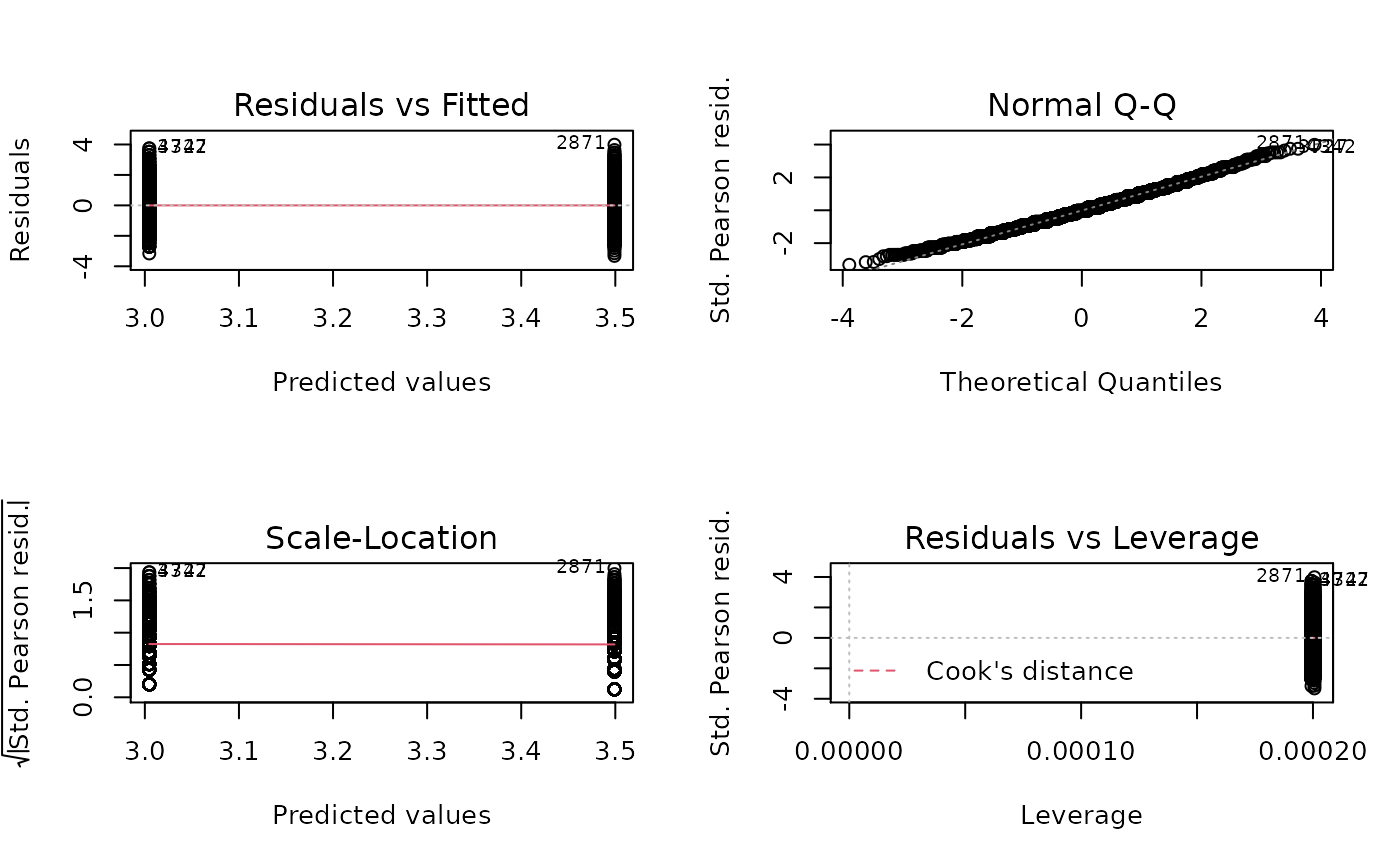
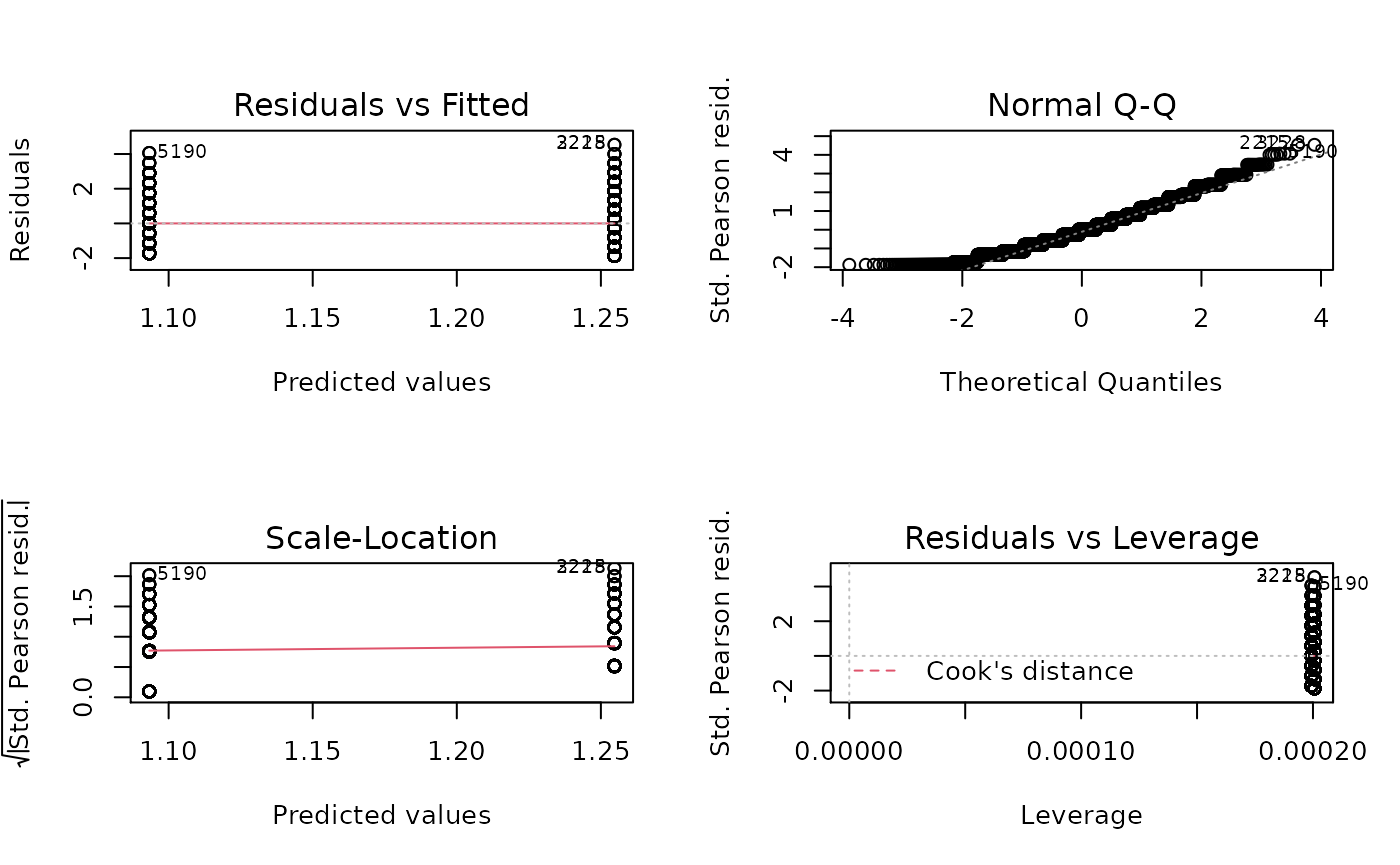
Deploying to gh-pages from  @ 47412f17218c9c6b55fefcc4e6efac3cb1cf3502 🚀

diff --git a/articles/session_lab.html b/articles/session_lab.html
@@ -113,67 +113,92 @@
 <ol style="list-style-type: decimal">
 <li>Simulate count data from a Poisson distribution (for example number of hospital visits by persons over 70 in a 3-year period), where:
 <ol style="list-style-type: lower-alpha">
-<li>each person is annotated with “race” as “white” or “non-white”</li>
+<li>10,000 persons annotated with “race” as “white” or “non-white”</li>
 <li>“white” persons have an average of 3.5 hospital visits during this time period</li>
 <li>“non-white” persons have an average of 3 hospital visits</li>
 </ol>
 </li>
 </ol>
 <div class="sourceCode" id="cb1"><pre class="downlit">
-<span class="va">simdat</span> <span class="op">&lt;-</span> <span class="fu"><a href="https://rdrr.io/r/base/data.frame.html">data.frame</a></span><span class="op">(</span>race<span class="op">=</span><span class="fu"><a href="https://rdrr.io/r/base/sample.html">sample</a></span><span class="op">(</span><span class="fu"><a href="https://rdrr.io/r/base/c.html">c</a></span><span class="op">(</span><span class="st">"white"</span>, <span class="st">"non-white"</span><span class="op">)</span>, size<span class="op">=</span><span class="fl">10000</span>, replace<span class="op">=</span><span class="cn">TRUE</span><span class="op">)</span><span class="op">)</span>
-<span class="va">simdat</span><span class="op">$</span><span class="va">race</span> <span class="op">&lt;-</span> <span class="fu"><a href="https://rdrr.io/r/base/factor.html">factor</a></span><span class="op">(</span><span class="va">simdat</span><span class="op">$</span><span class="va">race</span>, levels<span class="op">=</span><span class="fu"><a href="https://rdrr.io/r/base/c.html">c</a></span><span class="op">(</span><span class="st">"white"</span>, <span class="st">"non-white"</span><span class="op">)</span><span class="op">)</span>
-<span class="va">simdat</span><span class="op">$</span><span class="va">y</span> <span class="op">&lt;-</span> <span class="fu"><a href="https://rdrr.io/r/stats/Poisson.html">rpois</a></span><span class="op">(</span><span class="fl">10000</span>, lambda<span class="op">=</span><span class="fu"><a href="https://rdrr.io/r/base/ifelse.html">ifelse</a></span><span class="op">(</span><span class="va">simdat</span><span class="op">$</span><span class="va">race</span><span class="op">==</span><span class="st">"white"</span>, <span class="fu"><a href="https://rdrr.io/r/base/Log.html">exp</a></span><span class="op">(</span><span class="fl">3.5</span><span class="op">)</span>, <span class="fu"><a href="https://rdrr.io/r/base/Log.html">exp</a></span><span class="op">(</span><span class="fl">3</span><span class="op">)</span><span class="op">)</span><span class="op">)</span></pre></div>
+<span class="kw"><a href="https://rdrr.io/r/base/library.html">library</a></span><span class="op">(</span><span class="va"><a href="http://tidyverse.tidyverse.org">tidyverse</a></span><span class="op">)</span></pre></div>
+<pre><code>## ── Attaching packages ─────────────────────────────────────── tidyverse 1.3.0 ──</code></pre>
+<pre><code>## ✔ ggplot2 3.3.2     ✔ purrr   0.3.4
+## ✔ tibble  3.0.3     ✔ dplyr   1.0.2
+## ✔ tidyr   1.1.2     ✔ stringr 1.4.0
+## ✔ readr   1.4.0     ✔ forcats 0.5.0</code></pre>
+<pre><code>## ── Conflicts ────────────────────────────────────────── tidyverse_conflicts() ──
+## ✖ dplyr::filter() masks stats::filter()
+## ✖ dplyr::lag()    masks stats::lag()</code></pre>
+<div class="sourceCode" id="cb5"><pre class="downlit">
+<span class="fu"><a href="https://rdrr.io/r/base/Random.html">set.seed</a></span><span class="op">(</span><span class="fl">1</span><span class="op">)</span>
+<span class="va">N</span> <span class="op">&lt;-</span> <span class="fl">10000</span>
+<span class="va">simdat</span> <span class="op">&lt;-</span> <span class="fu"><a href="https://rdrr.io/r/base/data.frame.html">data.frame</a></span><span class="op">(</span>race <span class="op">=</span> <span class="fu"><a href="https://rdrr.io/r/base/sample.html">sample</a></span><span class="op">(</span><span class="fu"><a href="https://rdrr.io/r/base/c.html">c</a></span><span class="op">(</span><span class="st">"white"</span>, <span class="st">"non-white"</span><span class="op">)</span>, <span class="va">N</span>, replace <span class="op">=</span> <span class="cn">TRUE</span><span class="op">)</span><span class="op">)</span> <span class="op">%&gt;%</span>
+  <span class="fu">mutate</span><span class="op">(</span>race <span class="op">=</span> <span class="fu"><a href="https://rdrr.io/r/base/factor.html">factor</a></span><span class="op">(</span><span class="va">race</span>, levels <span class="op">=</span> <span class="fu"><a href="https://rdrr.io/r/base/c.html">c</a></span><span class="op">(</span><span class="st">"white"</span>, <span class="st">"non-white"</span><span class="op">)</span><span class="op">)</span><span class="op">)</span> <span class="op">%&gt;%</span>
+  <span class="fu">mutate</span><span class="op">(</span>y <span class="op">=</span> <span class="fu"><a href="https://rdrr.io/r/stats/Poisson.html">rpois</a></span><span class="op">(</span><span class="va">N</span>, lambda <span class="op">=</span> <span class="fu"><a href="https://rdrr.io/r/base/ifelse.html">ifelse</a></span><span class="op">(</span><span class="va">race</span> <span class="op">==</span> <span class="st">"white"</span>, <span class="fl">3.5</span>, <span class="fl">3.0</span><span class="op">)</span><span class="op">)</span><span class="op">)</span></pre></div>
 <ol start="2" style="list-style-type: decimal">
 <li>Fit a log-linear Poisson model of count outcomes with “race” as covariate</li>
 </ol>
-<div class="sourceCode" id="cb2"><pre class="downlit">
-<span class="va">fit</span> <span class="op">&lt;-</span> <span class="fu"><a href="https://rdrr.io/r/stats/glm.html">glm</a></span><span class="op">(</span><span class="va">y</span> <span class="op">~</span> <span class="va">race</span>, data <span class="op">=</span> <span class="va">simdat</span>, family <span class="op">=</span> <span class="fu"><a href="https://rdrr.io/r/stats/family.html">poisson</a></span><span class="op">(</span><span class="st">"log"</span><span class="op">)</span><span class="op">)</span>
+<div class="sourceCode" id="cb6"><pre class="downlit">
+<span class="va">fit</span> <span class="op">&lt;-</span> <span class="fu"><a href="https://rdrr.io/r/stats/glm.html">glm</a></span><span class="op">(</span><span class="va">y</span> <span class="op">~</span> <span class="va">race</span>, data <span class="op">=</span> <span class="va">simdat</span>, family <span class="op">=</span> <span class="fu"><a href="https://rdrr.io/r/stats/family.html">poisson</a></span><span class="op">(</span>link <span class="op">=</span> <span class="st">"log"</span><span class="op">)</span><span class="op">)</span>
 <span class="fu"><a href="https://rdrr.io/r/base/summary.html">summary</a></span><span class="op">(</span><span class="va">fit</span><span class="op">)</span></pre></div>
 <pre><code>## 
 ## Call:
-## glm(formula = y ~ race, family = poisson("log"), data = simdat)
+## glm(formula = y ~ race, family = poisson(link = "log"), data = simdat)
 ## 
 ## Deviance Residuals: 
 ##     Min       1Q   Median       3Q      Max  
-## -3.7537  -0.7257  -0.0402   0.6677   3.6210  
+## -2.6483  -0.8760   0.0092   0.5588   3.5410  
 ## 
 ## Coefficients:
 ##                Estimate Std. Error z value Pr(&gt;|z|)    
-## (Intercept)    3.499100   0.002463  1420.9   &lt;2e-16 ***
-## racenon-white -0.494397   0.003993  -123.8   &lt;2e-16 ***
+## (Intercept)    1.254710   0.007564  165.88   &lt;2e-16 ***
+## racenon-white -0.161428   0.011137  -14.49   &lt;2e-16 ***
 ## ---
 ## Signif. codes:  0 '***' 0.001 '**' 0.01 '*' 0.05 '.' 0.1 ' ' 1
 ## 
 ## (Dispersion parameter for poisson family taken to be 1)
 ## 
-##     Null deviance: 25873  on 9999  degrees of freedom
-## Residual deviance: 10079  on 9998  degrees of freedom
-## AIC: 60834
+##     Null deviance: 11041  on 9999  degrees of freedom
+## Residual deviance: 10831  on 9998  degrees of freedom
+## AIC: 39419
 ## 
-## Number of Fisher Scoring iterations: 4</code></pre>
+## Number of Fisher Scoring iterations: 5</code></pre>
 <ol start="3" style="list-style-type: decimal">
 <li>Use a chi-square test on deviance residuals to test null hypothesis of no relationship between mean hospital visits and race.</li>
 </ol>
 <ul>
 <li>The difference in total deviance between two nested models is <span class="math inline">\(\chi^2\)</span> distributed under <span class="math inline">\(H_0\)</span> that the more complex model is no better at explaining the response.
 <ul>
-<li>The difference in deviance residuals is (26157 - 10111) = 16046, with a difference of 1 degrees of freedom.</li>
+<li>The difference in deviance residuals is (11041 - 10831) = 210, with a difference of 1 degrees of freedom.</li>
 </ul>
 </li>
 </ul>
 <p>The critical threshold for rejection at p=0.05 is:</p>
-<div class="sourceCode" id="cb4"><pre class="downlit">
+<div class="sourceCode" id="cb8"><pre class="downlit">
 <span class="fu"><a href="https://rdrr.io/r/stats/Chisquare.html">qchisq</a></span><span class="op">(</span><span class="fl">0.95</span>, df<span class="op">=</span><span class="fl">1</span><span class="op">)</span></pre></div>
 <pre><code>## [1] 3.841459</code></pre>
 <p>So we reject <span class="math inline">\(H_0\)</span></p>
+<p>BEWARE OF MISSING DATA: THIS IS SAFER</p>
+<div class="sourceCode" id="cb10"><pre class="downlit">
+<span class="va">fit0</span> <span class="op">&lt;-</span> <span class="fu"><a href="https://rdrr.io/r/stats/glm.html">glm</a></span><span class="op">(</span><span class="va">y</span> <span class="op">~</span> <span class="op">-</span><span class="fl">1</span>, data <span class="op">=</span> <span class="va">simdat</span>, family <span class="op">=</span> <span class="fu"><a href="https://rdrr.io/r/stats/family.html">poisson</a></span><span class="op">(</span>link <span class="op">=</span> <span class="st">"log"</span><span class="op">)</span><span class="op">)</span>
+<span class="fu"><a href="https://rdrr.io/r/stats/anova.html">anova</a></span><span class="op">(</span><span class="va">fit0</span>, <span class="va">fit</span>, test <span class="op">=</span> <span class="st">"LRT"</span><span class="op">)</span></pre></div>
+<pre><code>## Analysis of Deviance Table
+## 
+## Model 1: y ~ -1
+## Model 2: y ~ race
+##   Resid. Df Resid. Dev Df Deviance  Pr(&gt;Chi)    
+## 1     10000      42527                          
+## 2      9998      10831  2    31696 &lt; 2.2e-16 ***
+## ---
+## Signif. codes:  0 '***' 0.001 '**' 0.01 '*' 0.05 '.' 0.1 ' ' 1</code></pre>
 <ol start="3" style="list-style-type: decimal">
 <li>Inference on deviance residuals 2</li>
 </ol>
 <p>Total residual deviance is <span class="math inline">\(\chi^2\)</span> distributed if the model is correctly specified + What is the critical value for rejecting <span class="math inline">\(H_0\)</span> at <span class="math inline">\(p &lt; 0.05\)</span> with a <span class="math inline">\(\chi^2\)</span> distribution of 9998 degrees of freedom?</p>
-<div class="sourceCode" id="cb6"><pre class="downlit">
+<div class="sourceCode" id="cb12"><pre class="downlit">
 <span class="fu"><a href="https://rdrr.io/r/stats/Chisquare.html">qchisq</a></span><span class="op">(</span><span class="fl">0.95</span>, df<span class="op">=</span><span class="fl">9998</span><span class="op">)</span></pre></div>
 <pre><code>## [1] 10231.73</code></pre>
-<p>Here total residual deviance is 10111, so we do <em>not</em> exceed the threshold and do not reject <span class="math inline">\(H_0\)</span> that the model is correctly specified.</p>
+<p>Here total residual deviance is 10811, so we do <em>not</em> exceed the threshold and do not reject <span class="math inline">\(H_0\)</span> that the model is correctly specified.</p>
 <ol start="4" style="list-style-type: decimal">
 <li>Create and discuss standard fit diagnostics plots</li>
 </ol>
@@ -186,7 +211,7 @@
 <li>Outcome is # times the drug user shared a syringe in the past month (<code>shared_syr</code>)</li>
 <li>Predictors: sex, ethn, homeless</li>
 </ul>
-<div class="sourceCode" id="cb8"><pre class="downlit">
+<div class="sourceCode" id="cb14"><pre class="downlit">
 <span class="kw"><a href="https://rdrr.io/r/base/library.html">library</a></span><span class="op">(</span><span class="va"><a href="https://readr.tidyverse.org">readr</a></span><span class="op">)</span>
 <span class="va">needledat</span> <span class="op">=</span> <span class="fu"><a href="https://readr.tidyverse.org/reference/read_delim.html">read_csv</a></span><span class="op">(</span><span class="st">"needle_sharing.csv"</span><span class="op">)</span></pre></div>
 <pre><code>## 
@@ -210,15 +235,15 @@
 ##   homeless = col_double(),
 ##   shsyr = col_double()
 ## )</code></pre>
-<div class="sourceCode" id="cb10"><pre class="downlit">
+<div class="sourceCode" id="cb16"><pre class="downlit">
 <span class="fu"><a href="https://rdrr.io/r/base/summary.html">summary</a></span><span class="op">(</span><span class="va">needledat</span><span class="op">$</span><span class="va">shared_syr</span><span class="op">)</span></pre></div>
 <pre><code>##    Min. 1st Qu.  Median    Mean 3rd Qu.    Max.    NA's 
 ##   0.000   0.000   0.000   2.976   0.000  60.000       5</code></pre>
-<div class="sourceCode" id="cb12"><pre class="downlit">
+<div class="sourceCode" id="cb18"><pre class="downlit">
 <span class="fu"><a href="https://rdrr.io/r/stats/cor.html">var</a></span><span class="op">(</span><span class="va">needledat</span><span class="op">$</span><span class="va">shared_syr</span>, na.rm<span class="op">=</span><span class="cn">TRUE</span><span class="op">)</span></pre></div>
 <pre><code>## [1] 106.5978</code></pre>
 <p>Some recoding:</p>
-<div class="sourceCode" id="cb14"><pre class="downlit">
+<div class="sourceCode" id="cb20"><pre class="downlit">
 <span class="fu"><a href="https://rdrr.io/r/base/message.html">suppressPackageStartupMessages</a></span><span class="op">(</span><span class="kw"><a href="https://rdrr.io/r/base/library.html">library</a></span><span class="op">(</span><span class="va"><a href="https://dplyr.tidyverse.org">dplyr</a></span><span class="op">)</span><span class="op">)</span>
 <span class="va">needledat_cleaned</span> <span class="op">&lt;-</span>
   <span class="fu"><a href="https://dplyr.tidyverse.org/reference/mutate.html">mutate</a></span><span class="op">(</span><span class="va">needledat</span>,
@@ -230,7 +255,7 @@
 <ol start="5" style="list-style-type: decimal">
 <li>Create a table of the risky drug use behavior dataset</li>
 </ol>
-<div class="sourceCode" id="cb15"><pre class="downlit">
+<div class="sourceCode" id="cb21"><pre class="downlit">
 <span class="kw"><a href="https://rdrr.io/r/base/library.html">library</a></span><span class="op">(</span><span class="va"><a href="https://github.com/kaz-yos/tableone">tableone</a></span><span class="op">)</span>
 <span class="va">t1</span> <span class="op">&lt;-</span> <span class="fu"><a href="https://rdrr.io/pkg/tableone/man/CreateTableOne.html">CreateTableOne</a></span><span class="op">(</span>data<span class="op">=</span><span class="va">needledat_cleaned</span>, includeNA <span class="op">=</span> <span class="cn">TRUE</span><span class="op">)</span>
 <span class="fu"><a href="https://rdrr.io/r/base/print.html">print</a></span><span class="op">(</span><span class="va">t1</span>, missing<span class="op">=</span><span class="cn">TRUE</span>, showAllLevels <span class="op">=</span> <span class="cn">TRUE</span><span class="op">)</span></pre></div>
@@ -259,7 +284,7 @@
 <li><p>Create a histogram number of syringe uses</p></li>
 <li><p>Create a scatter plot of number of syringe uses versus rank of number of syringe uses</p></li>
 </ol>
-<div class="sourceCode" id="cb17"><pre class="downlit">
+<div class="sourceCode" id="cb23"><pre class="downlit">
 <span class="kw"><a href="https://rdrr.io/r/base/library.html">library</a></span><span class="op">(</span><span class="va"><a href="http://ggplot2.tidyverse.org">ggplot2</a></span><span class="op">)</span>
 <span class="fu"><a href="https://ggplot2.tidyverse.org/reference/ggplot.html">ggplot</a></span><span class="op">(</span><span class="va">needledat</span>, <span class="fu"><a href="https://ggplot2.tidyverse.org/reference/aes.html">aes</a></span><span class="op">(</span><span class="va">shared_syr</span><span class="op">)</span><span class="op">)</span> <span class="op">+</span>
   <span class="fu"><a href="https://ggplot2.tidyverse.org/reference/geom_histogram.html">geom_histogram</a></span><span class="op">(</span><span class="op">)</span> <span class="op">+</span>
@@ -269,7 +294,7 @@
 <pre><code>## `stat_bin()` using `bins = 30`. Pick better value with `binwidth`.</code></pre>
 <pre><code>## Warning: Removed 5 rows containing non-finite values (stat_bin).</code></pre>
 <p><img src="session_lab_files/figure-html/histogram-1.png" width="700"></p>
-<div class="sourceCode" id="cb20"><pre class="downlit">
+<div class="sourceCode" id="cb26"><pre class="downlit">
 <span class="kw"><a href="https://rdrr.io/r/base/library.html">library</a></span><span class="op">(</span><span class="va"><a href="https://dplyr.tidyverse.org">dplyr</a></span><span class="op">)</span>
 <span class="fu"><a href="https://dplyr.tidyverse.org/reference/mutate.html">mutate</a></span><span class="op">(</span><span class="va">needledat</span>, rnk <span class="op">=</span> <span class="fu"><a href="https://rdrr.io/r/base/rank.html">rank</a></span><span class="op">(</span><span class="va">shared_syr</span>, ties.method <span class="op">=</span> <span class="st">"first"</span><span class="op">)</span><span class="op">)</span> <span class="op">%&gt;%</span>
   <span class="fu"><a href="https://ggplot2.tidyverse.org/reference/ggplot.html">ggplot</a></span><span class="op">(</span><span class="fu"><a href="https://ggplot2.tidyverse.org/reference/aes.html">aes</a></span><span class="op">(</span>x <span class="op">=</span> <span class="va">rnk</span>, y <span class="op">=</span> <span class="va">shared_syr</span><span class="op">)</span><span class="op">)</span> <span class="op">+</span>
@@ -285,7 +310,8 @@
 <ol start="8" style="list-style-type: decimal">
 <li>Fit a Poisson model to the risky drug use behavior dataset anyways</li>
 </ol>
-<div class="sourceCode" id="cb22"><pre class="downlit">
+<p>Even though we know it is a bad fit</p>
+<div class="sourceCode" id="cb28"><pre class="downlit">
 <span class="va">fit.pois</span> <span class="op">&lt;-</span> <span class="fu"><a href="https://rdrr.io/r/stats/glm.html">glm</a></span><span class="op">(</span><span class="va">shared_syr</span> <span class="op">~</span> <span class="va">sex</span> <span class="op">+</span> <span class="va">ethn</span> <span class="op">+</span> <span class="va">homeless</span>,
                 data <span class="op">=</span> <span class="va">needledat</span>,
                 family <span class="op">=</span> <span class="fu"><a href="https://rdrr.io/r/stats/family.html">poisson</a></span><span class="op">(</span>link <span class="op">=</span> <span class="st">"log"</span><span class="op">)</span><span class="op">)</span>
@@ -325,7 +351,7 @@
 <ol start="9" style="list-style-type: decimal">
 <li>Create and discuss Poisson model diagnostic plots</li>
 </ol>
-<div class="sourceCode" id="cb24"><pre class="downlit">
+<div class="sourceCode" id="cb30"><pre class="downlit">
 <span class="fu"><a href="https://rdrr.io/r/graphics/par.html">par</a></span><span class="op">(</span>mfrow <span class="op">=</span> <span class="fu"><a href="https://rdrr.io/r/base/c.html">c</a></span><span class="op">(</span><span class="fl">2</span>, <span class="fl">2</span><span class="op">)</span><span class="op">)</span>
 <span class="fu"><a href="https://rdrr.io/r/graphics/plot.default.html">plot</a></span><span class="op">(</span><span class="va">fit.pois</span><span class="op">)</span></pre></div>
 <pre><code>## Warning: not plotting observations with leverage one:
